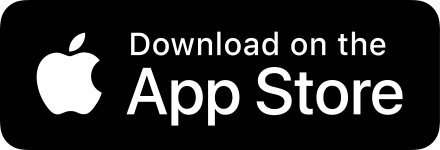
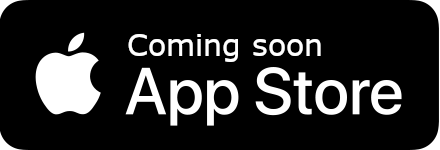
app store link

diff --git a/_layouts/default.html b/_layouts/default.html
@@ -49,10 +49,8 @@
                             </p>
                         </div>
                         <div class="downloadButtonsContainer">
-                            {% if site.playstore_link %}
-                                <a class="playStoreLink" href="{{site.playstore_link}}"><img class="playStore" src="assets/playstore.png"></a>
-                            {% endif %}
-                            <a class="appStoreLink" href="{{site.appstore_link}}"><img class="appStore" src="assets/appstore.png"></a>
+                            <a class="playStoreLink" href=""><img class="playStore" src="assets/playstore.png"></a>
+                            <a class="appStoreLink" href=""><img class="appStore" src="assets/appstore.png"></a>
                         </div>
                     </div>
                     {% include features.html %}
